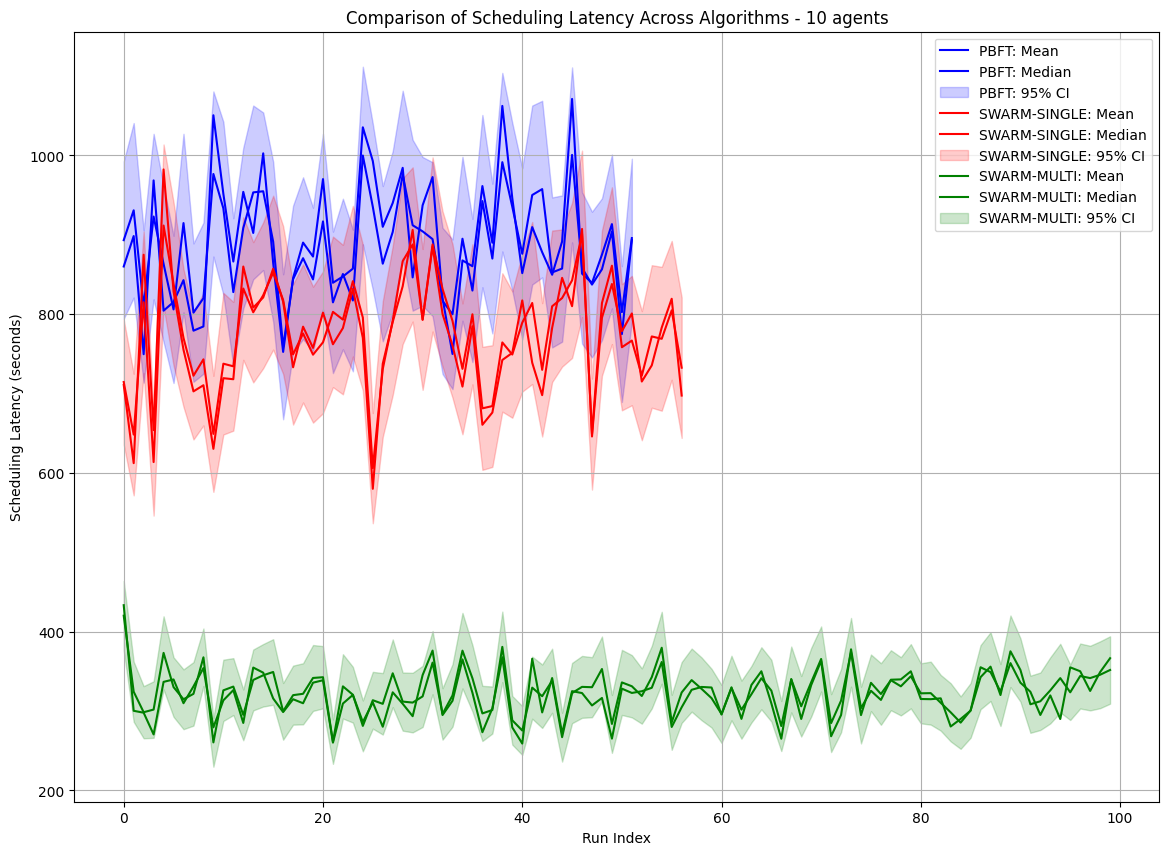
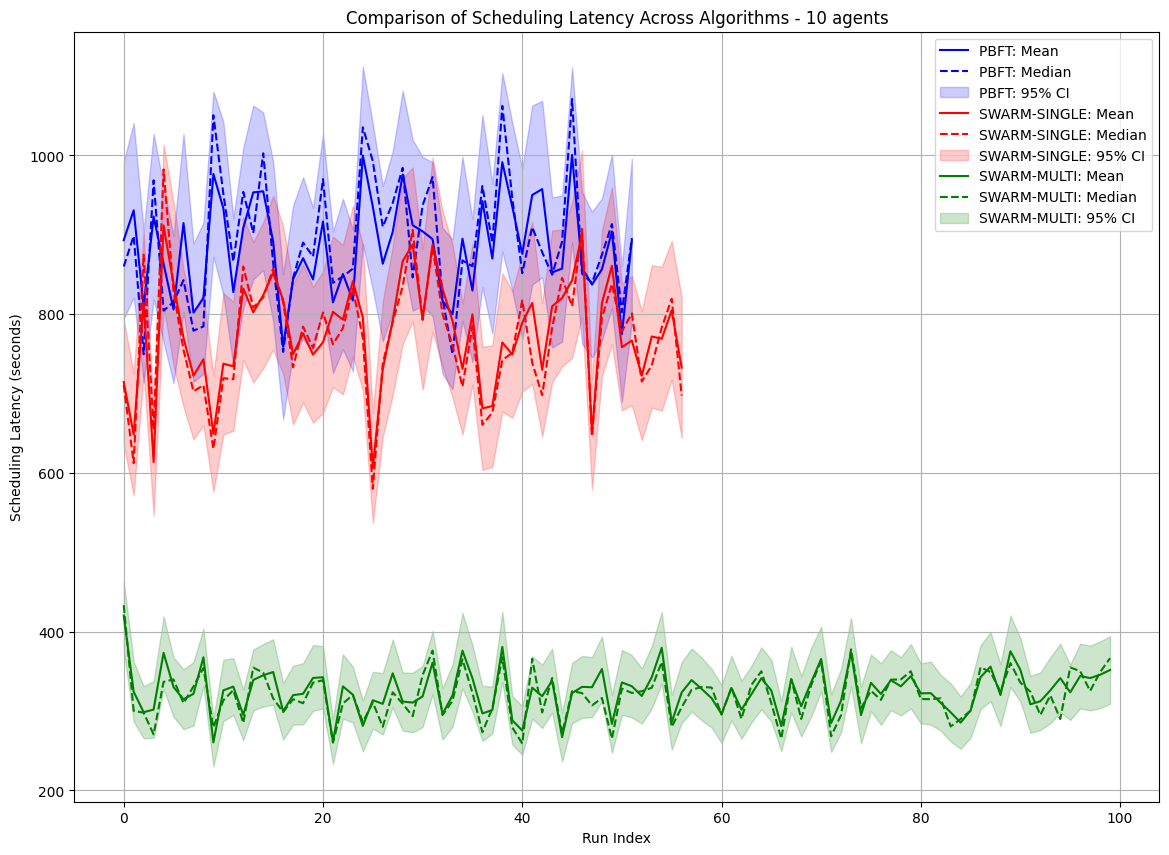
CI plots

Changed region(s): [[0.1232, 0.3345, 0.154, 0.3649], [0.1232, 0.2129, 0.154, 0.2433]]

diff --git a/runs/comparison.py b/runs/comparison.py
@@ -15,6 +15,7 @@ def compute_metrics(run_directory: str, number_of_agents: int, algo: str):
     scheduling_latencies = []
     wait_times = []
     all_idle_times = []
+    all_idle_times_list = []
 
     # Loop through the directories for each run
     for i in range(100):
@@ -54,6 +55,7 @@ def compute_metrics(run_directory: str, number_of_agents: int, algo: str):
                 idle_times_list.extend(idle_times[agent_id])
 
         all_idle_times.append(idle_times)
+        all_idle_times_list.append(idle_times_list)
 
     # Flatten the lists for overall metrics analysis
     flat_selection_times = [item for sublist in selection_times for item in sublist]
@@ -67,6 +69,12 @@ def compute_metrics(run_directory: str, number_of_agents: int, algo: str):
     ci_lower = [ci[0] for ci in conf_intervals]
     ci_upper = [ci[1] for ci in conf_intervals]
 
+    idle_means = [np.mean(run) for run in all_idle_times_list]
+    idle_medians = [np.median(run) for run in all_idle_times_list]
+    idle_conf_intervals = [stats.t.interval(0.95, len(run) - 1, loc=np.mean(run), scale=stats.sem(run)) for run in all_idle_times_list]
+    idle_ci_lower = [ci[0] for ci in idle_conf_intervals]
+    idle_ci_upper = [ci[1] for ci in idle_conf_intervals]
+
     return {
         'flat_selection_times': flat_selection_times,
         'flat_scheduling_latencies': flat_scheduling_latencies,
@@ -76,8 +84,34 @@ def compute_metrics(run_directory: str, number_of_agents: int, algo: str):
         'medians': medians,
         'ci_lower': ci_lower,
         'ci_upper': ci_upper,
+        'idle_means': idle_means,
+        'idle_medians': idle_medians,
+        'idle_ci_lower': idle_ci_lower,
+        'idle_ci_upper': idle_ci_upper,
         'algo': algo
     }
+
+
+def plot_means_median_line_idle(data_list: List[Dict[str, Any]], number_of_agents: int):
+    plt.figure(figsize=(14, 10))
+    colors = [["b-", "blue"], ["r-", "red"], ["g-", "green"]]
+
+    idx = 0
+    for mean_median in data_list:
+        plt.plot(mean_median['idle_means'], colors[idx][0], label=f'{mean_median["algo"]}: Mean')
+        plt.plot(mean_median['idle_medians'], f'{colors[idx][0]}-', label=f'{mean_median["algo"]}: Median')
+        plt.fill_between(range(len(mean_median['idle_means'])), mean_median['idle_ci_lower'], mean_median['idle_ci_upper'],
+                         color=colors[idx][1], alpha=0.2,
+                         label=f'{mean_median["algo"]}: 95% CI')
+        idx += 1
+
+    plt.title(f'Comparison of Idle Time Across Algorithms - {number_of_agents} agents')
+    plt.xlabel('Run Index')
+    plt.ylabel('Idle Time (seconds)')
+    plt.legend()
+    plt.grid(True)
+    plt.savefig(f'comparison_line_plot_idle_time_with_ci_{number_of_agents}.png', bbox_inches='tight')
+    plt.close()
 
 
 def plot_means_median_line(data_list: List[Dict[str, Any]], number_of_agents: int):
@@ -87,7 +121,7 @@ def plot_means_median_line(data_list: List[Dict[str, Any]], number_of_agents: in
     idx = 0
     for mean_median in data_list:
         plt.plot(mean_median['means'], colors[idx][0], label=f'{mean_median["algo"]}: Mean')
-        plt.plot(mean_median['medians'], colors[idx][0], label=f'{mean_median["algo"]}: Median')
+        plt.plot(mean_median['medians'], f'{colors[idx][0]}-', label=f'{mean_median["algo"]}: Median')
         plt.fill_between(range(len(mean_median['means'])), mean_median['ci_lower'], mean_median['ci_upper'],
                          color=colors[idx][1], alpha=0.2,
                          label=f'{mean_median["algo"]}: 95% CI')
@@ -149,6 +183,7 @@ def plots(number_of_agents: int):
                                         number_of_agents=number_of_agents, algo="SWARM-SINGLE")
     data_list = [data_pbft, data_swarm_single, data_swarm_multi]
     plot_means_median_line(number_of_agents=number_of_agents, data_list=data_list)
+    plot_means_median_line_idle(number_of_agents=number_of_agents, data_list=data_list)
     plot_histograms(number_of_agents=number_of_agents, data_list=data_list, param_name='flat_wait_times',
                     param_pretty_name="Wait Time")
     plot_histograms(number_of_agents=number_of_agents, data_list=data_list, param_name='flat_idle_times',

diff --git a/README.md b/README.md
@@ -133,15 +133,17 @@ python analyze_results.py --number_of_agents 3 --run_directory swarm/single-job/
 ### Results with 3 Agents
 ![Scheduling Latency](./runs/comparison_histogram_flat_scheduling_latencies_3.png)
 ![Idle Time](./runs/comparison_histogram_flat_idle_times_3.png)
+![CI Plot Idle Time](./runs/comparison_line_plot_idle_time_with_ci_3.png)
 ![CI Plot](./runs/comparison_line_plot_with_ci_3.png)
 ### Results with 5 Agents
 ![Scheduling Latency](./runs/comparison_histogram_flat_scheduling_latencies_5.png)
 ![Idle Time](./runs/comparison_histogram_flat_idle_times_5.png)
+![CI Plot Idle Time](./runs/comparison_line_plot_idle_time_with_ci_5.png)
 ![CI Plot](./runs/comparison_line_plot_with_ci_5.png)
-
 ### Results with 10 Agents
 ![Scheduling Latency](./runs/comparison_histogram_flat_scheduling_latencies_10.png)
 ![Idle Time](./runs/comparison_histogram_flat_idle_times_10.png)
+![CI Plot Idle Time](./runs/comparison_line_plot_idle_time_with_ci_10.png)
 ![CI Plot](./runs/comparison_line_plot_with_ci_10.png)
 
 ## Raft Consensus Algorithm
